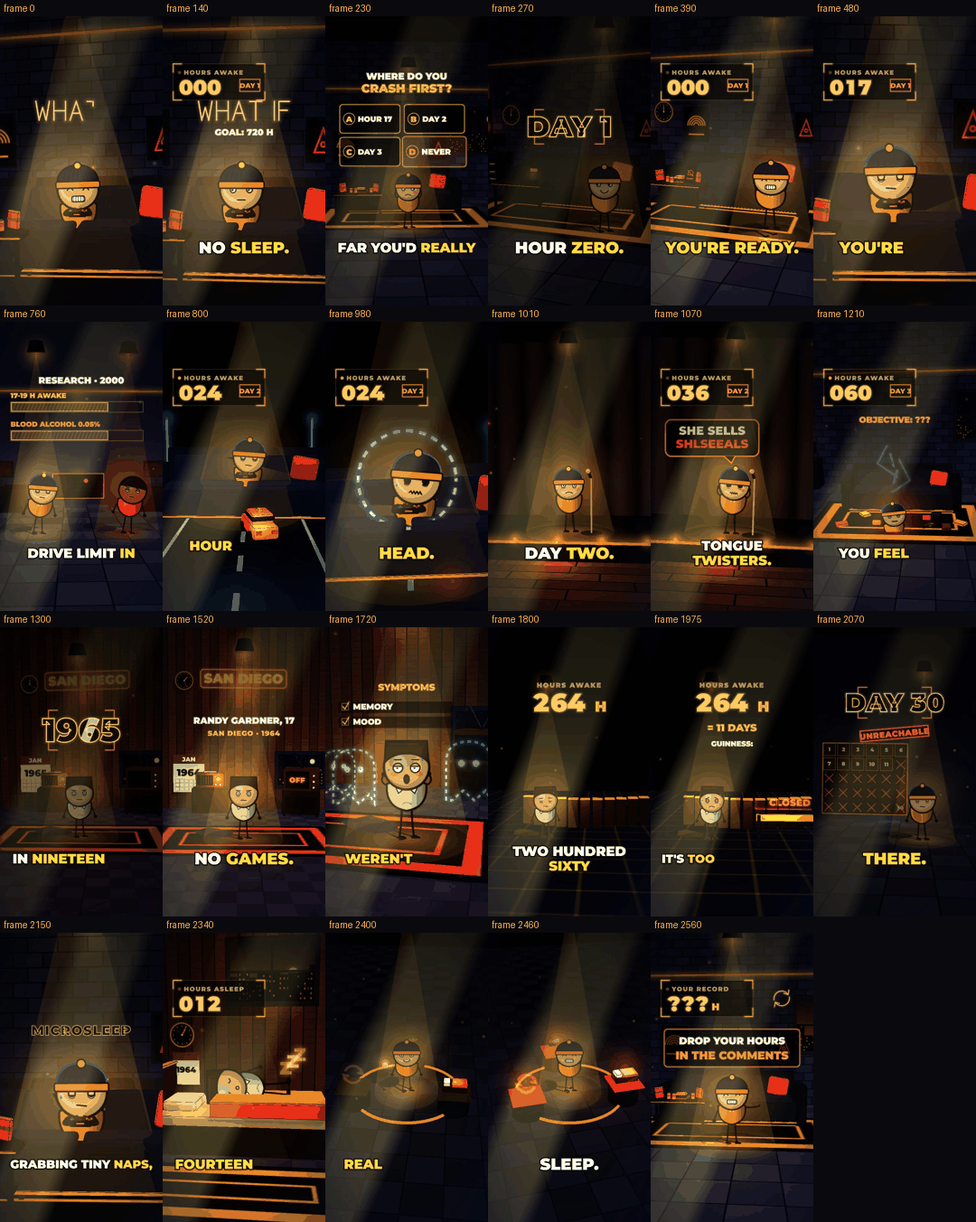
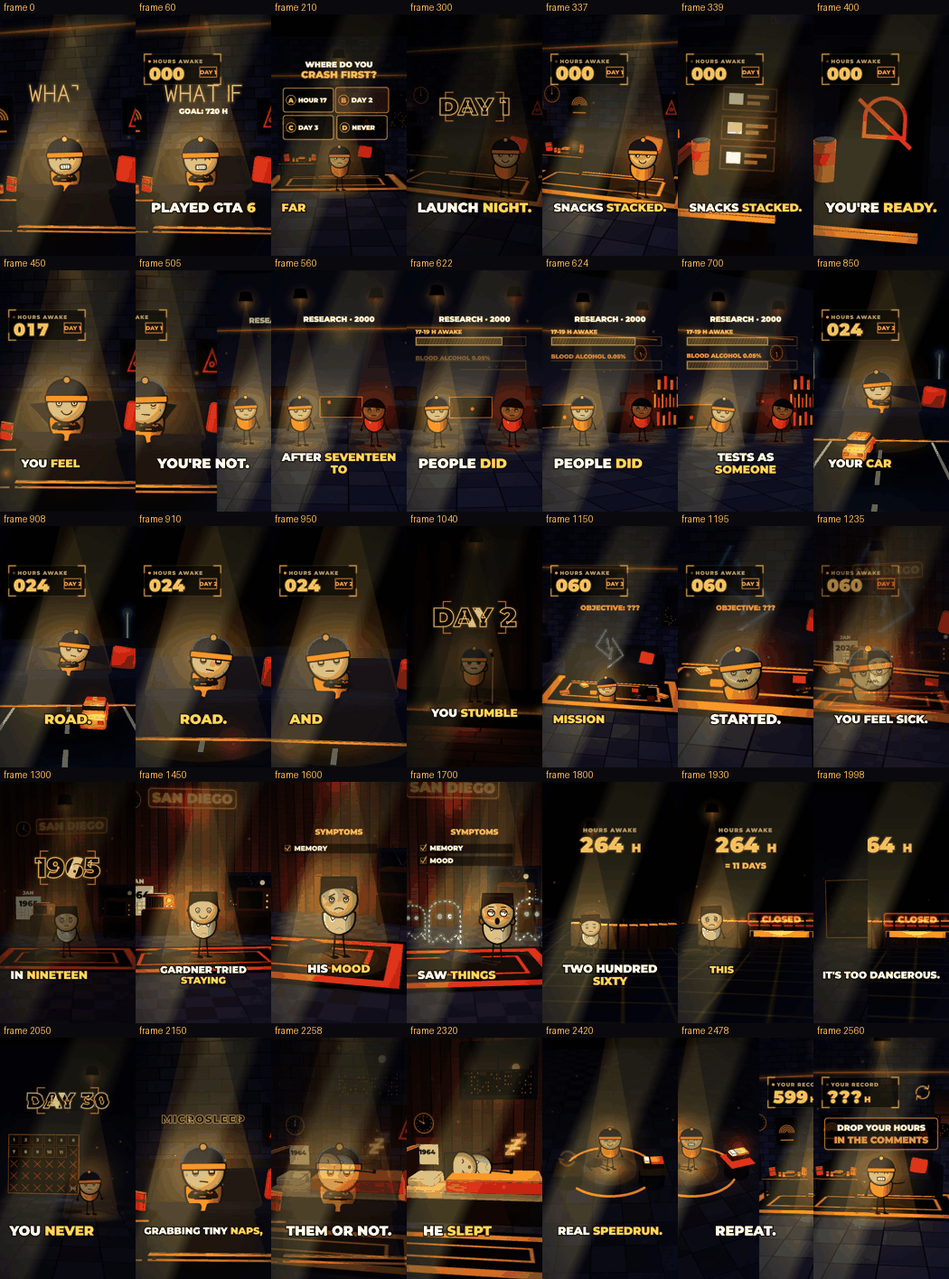
wi-gta-nosleep: real shots and cuts (23 shots, hard cuts, 5 transitions)
Each script line = 1-2 shots with their own framing and in-shot camera move; @remotion/transitions 4.0.290
(slide/fade/wipe, 10 f) on 5 place changes, hard cuts elsewhere; no camera carry-over; phone insert without text.

Claude-Session: https://claude.ai/code/session_019RediFF51hqccXe4quizri

diff --git a/episodes/wi-gta-nosleep/story.tsx b/episodes/wi-gta-nosleep/story.tsx
@@ -11,6 +11,10 @@
 import React from "react";
 import { AbsoluteFill, useCurrentFrame, interpolate, Easing, getInputProps } from "remotion";
 import { ThreeCanvas } from "@remotion/three";
+import { TransitionSeries, linearTiming } from "@remotion/transitions";
+import { fade } from "@remotion/transitions/fade";
+import { slide } from "@remotion/transitions/slide";
+import { wipe } from "@remotion/transitions/wipe";
 import * as THREE from "three";
 import { useThree } from "@react-three/fiber";
 import type { Story, SceneProps } from "../../src/engine/EpisodeShort";
@@ -28,7 +32,6 @@ import { Cam, Key, Taxi, Barrier, Curtain } from "../../library/stick3d/extra";
 import { Glb } from "../../library/stick3d/glb";
 import { drawPuppet, Look, Pose } from "../../library/stick3d/puppet";
 import { N3, FONT3, Halo, FloorPool, NeonBar, HeroLight, Motes, Panel, NeonSign, NeonClock, NightWindow, NeonPoster } from "../../library/stick3d/neon";
-import scenes from "../../content/scripts/wi-gta-nosleep.json";
 
 // ---------------------------------------------------------------- cast
 // Remy = the installed pack look REMY3D (src/tests/Stick3DTest.tsx: gold hoodie puppet) + the series beanie (gold band/pom)
@@ -37,15 +40,41 @@ const RANDY: Look = { skin: "#efcfae", body: "#f1e7d3", outfit: "shirt", hair: "
 const MO: Look = { skin: "#c98d5f", body: N3.coral, outfit: "shirt", hair: "short", hairColor: "#1b1b2a", shoe: N3.ink };
 const { gold: GOLD, coral: CORAL, amber: AMBER, text: CREAM, muted: MUTED, cyan: CYAN } = NEON;
 
-// ---------------------------------------------------------------- shots (cues from content/scripts, places here)
-const PLACE: Record<string, string> = {
-  hook: "room", crash: "room", hour0: "room", hour17: "room", study: "lab", hour24: "road", day2: "stage", day3: "room",
-  real: "y1964", symptoms: "y1964", record: "void", day30: "calendar", micro: "room", slept: "bed", speedrun: "loop", ask: "room",
-};
-const SHOTS = scenes.shots.map((s) => ({ id: s.id, cue: s.cue }));
-/** [place change INTO this shot, place change OUT of it] -> whip-pan carry-over across the dip */
-const CUT: Record<string, [boolean, boolean]> = Object.fromEntries(SHOTS.map((sh, i) => [sh.id, [
-  i > 0 && PLACE[SHOTS[i - 1].id] !== PLACE[sh.id], i < SHOTS.length - 1 && PLACE[SHOTS[i + 1].id] !== PLACE[sh.id]]]));
+// ---------------------------------------------------------------- shots
+// Edited like a real Short (owner 2026-11-21): every script line (beat) = 1-2 distinct SHOTS with their own framing and a
+// short camera move INSIDE the shot; HARD CUTS on beat changes, 5 short transitions (@remotion/transitions) on some place
+// changes. A sub-shot (sub 1) re-frames the same scene ("parent"): animation/HUD timing runs on the parent's clock, so the
+// counter and labels continue across that cut. Cues = narration words (words.json), so the cuts follow the voice.
+type Tr = "fade" | "slide" | "wipe";
+type ShotDef = { id: string; cue: string; parent: string; sub: number; tr?: Tr };
+const DEFS: ShotDef[] = [
+  { id: "hook", cue: "What if you", parent: "hook", sub: 0 },
+  { id: "crash", cue: "Let's see how", parent: "crash", sub: 0 },
+  { id: "hour0", cue: "Hour zero. Launch", parent: "hour0", sub: 0 },
+  { id: "hour0b", cue: "Phone on silent", parent: "hour0", sub: 1 },
+  { id: "hour17", cue: "Hour seventeen. You", parent: "hour17", sub: 0 },
+  { id: "study", cue: "In one study,", parent: "study", sub: 0, tr: "slide" },
+  { id: "studyb", cue: "as badly on", parent: "study", sub: 1 },
+  { id: "hour24", cue: "Hour twenty four.", parent: "hour24", sub: 0 },
+  { id: "hour24b", cue: "In the game,", parent: "hour24", sub: 1 },
+  { id: "day2", cue: "Day two. You", parent: "day2", sub: 0 },
+  { id: "day3", cue: "Day three. You", parent: "day3", sub: 0 },
+  { id: "day3b", cue: "You feel sick", parent: "day3", sub: 1 },
+  { id: "real", cue: "That's not a", parent: "real", sub: 0, tr: "fade" },
+  { id: "realb", cue: "named Randy Gardner", parent: "real", sub: 1 },
+  { id: "symptoms", cue: "His memory slipped,", parent: "symptoms", sub: 0 },
+  { id: "symptomsb", cue: "some reports say", parent: "symptoms", sub: 1 },
+  { id: "record", cue: "He stopped after", parent: "record", sub: 0 },
+  { id: "recordb", cue: "Guinness later", parent: "record", sub: 1 },
+  { id: "day30", cue: "So day thirty?", parent: "day30", sub: 0, tr: "wipe" },
+  { id: "micro", cue: "Your brain starts", parent: "micro", sub: 0 },
+  { id: "slept", cue: "When Randy finally", parent: "slept", sub: 0, tr: "fade" },
+  { id: "speedrun", cue: "So here's the", parent: "speedrun", sub: 0 },
+  { id: "ask", cue: "What's the longest", parent: "ask", sub: 0, tr: "slide" },
+];
+const DEF: Record<string, ShotDef> = Object.fromEntries(DEFS.map((d) => [d.id, d]));
+const SHOTS = DEFS.map((d) => ({ id: d.id, cue: d.cue }));
+const TR_FRAMES = 10;
 
 // ---------------------------------------------------------------- helpers
 /** exposure gain for the lit walls/floors (linear canvas output is dark): sets read clearly behind the characters */
@@ -54,26 +83,9 @@ const k = (u: number, a: number, b: number, from: number, to: number, e = EASE.c
   interpolate(u, [a, b], [from, to], { extrapolateLeft: "clamp", extrapolateRight: "clamp", easing: e });
 const pop = (u: number, at: number, d = 10) => interpolate(u, [at, at + d], [0, 1], { extrapolateLeft: "clamp", extrapolateRight: "clamp", easing: Easing.out(Easing.back(2.2)) });
 const ck = (u: number, pos: V3, look: V3, fov = 46, roll = 0): Key => ({ t: u / FPS, pos, look, fov, roll });
-/** Camera: piecewise-LINEAR moves (constant speed, never eased to a stop) so motion carries through the cuts; every shot
- *  trucks left + pushes in (one direction for the whole film). At a place change the camera whips left: the old shot
- *  accelerates its pan over its last 8 frames, the new one starts mid-whip and settles (motion carry-over across the dip). */
-const camLin = (t: number, keys: Key[]): Key => {
-  if (keys.length === 1) return keys[0];
-  let i = 0; while (i < keys.length - 2 && t > keys[i + 1].t) i++;
-  const a = keys[i], b = keys[i + 1], w = (t - a.t) / Math.max(1e-6, b.t - a.t);
-  const L = (x: number, y: number) => x + (y - x) * w;
-  return { t, pos: [L(a.pos[0], b.pos[0]), L(a.pos[1], b.pos[1]), L(a.pos[2], b.pos[2])], look: [L(a.look[0], b.look[0]), L(a.look[1], b.look[1]), L(a.look[2], b.look[2])], fov: L(a.fov ?? 46, b.fov ?? 46), roll: L(a.roll ?? 0, b.roll ?? 0) };
-};
-const WHIP = 8;
-const Shot: React.FC<{ u: number; len?: number; cut?: [boolean, boolean]; keys: Key[]; kicks?: number[]; impacts?: [number, number][] }> = ({ u, len = 9999, cut = [false, false], keys, kicks = [], impacts = [] }) => {
-  const c = camLin(u / FPS, keys);
-  const out = cut[1] ? Math.pow(clamp((u - (len - WHIP)) / WHIP), 2) : 0;
-  const inn = cut[0] ? Math.pow(1 - clamp(u / WHIP), 2) : 0;
-  const dist = Math.hypot(c.look[0] - c.pos[0], c.look[2] - c.pos[2]);
-  const dx = (inn - out) * 0.09 * dist; // gentle whip (~5 deg) so close shots never swing the hero off frame
-  const look: V3 = [c.look[0] + dx, c.look[1], c.look[2]];
-  return <Cam t={u / FPS} keys={[{ ...c, t: 0, look }]} fovKick={kicks.map((x) => x / FPS)} impacts={impacts.map(([a, b]) => [a / FPS, b] as [number, number])} />;
-};
+/** Camera: one short, eased move INSIDE each shot (push / pan / slight orbit); nothing carries across a cut */
+const Shot: React.FC<{ u: number; keys: Key[]; kicks?: number[]; impacts?: [number, number][] }> = ({ u, keys, kicks = [], impacts = [] }) =>
+  <Cam t={u / FPS} keys={keys} fovKick={kicks.map((x) => x / FPS)} impacts={impacts.map(([a, b]) => [a / FPS, b] as [number, number])} />;
 /** Lighting rig for every scene: warm KEY from front-top, cool sky/ground FILL, gold RIM from behind the hero, a soft
  *  pool over the hero, plus motivated practicals (lamp, TV/game glow, neon, window) as point lights; the pack's Shaft. */
 type Prac = [V3, string, number];
@@ -212,7 +224,7 @@ const GamerRoom: React.FC<{ t: number; dawn?: number; clockH?: number; table?: b
 
 // ---------------------------------------------------------------- shot builder
 type View = { world: React.ReactNode; hud?: React.ReactNode; black?: number; dim?: number };
-const build = (id: string, f: number, u: number, len: number, C: (p: string, fb: number) => number, hide: boolean): View => {
+const build = (id: string, f: number, u: number, len: number, C: (p: string, fb: number) => number, hide: boolean, sub = 0, us = u, ls = len): View => {
   const t = f / FPS;
   switch (id) {
     case "hook": { // frame 0 sting: WHAT IF already drawing on, Remy lit on the couch mashing the controller; counter + subtitle follow
@@ -223,7 +235,7 @@ const build = (id: string, f: number, u: number, len: number, C: (p: string, fb:
         <Hero p={[0, 0.2, -1.35]} look={REMY} pose={{ arms: "hold", mood: u >= NS ? "deadpan" : "grin", lookX: Math.sin(f * 0.21) * 0.6 }} f={f} shadow={false} rimO={0.45} />
         <Pad p={[0, 1.2, -1.2]} f={f} />
         <HeroLight p={[0, 0, -1.35]} h={6.2} r={1.6} t={t} />
-        <Shot u={u} len={len} cut={CUT[id] ?? [false, false]} keys={[ck(0, [1.2, 2.45, 6.9], [0.1, 2.33, -1.3], 42, 0.03), ck(len, [0.5, 2.42, 6.8], [0.05, 2.32, -1.3], 41, -0.01)]} />
+        <Shot u={us} keys={[ck(0, [1.2, 2.45, 6.9], [0.1, 2.33, -1.3], 42, 0.03), ck(ls, [0.5, 2.42, 6.8], [0.05, 2.32, -1.3], 41, -0.01)]} />
       </>;
       const hud = !hide && <>
         <StrokeWord text="WHAT IF" x={540} y={565} h={125} p={wp} />
@@ -238,7 +250,7 @@ const build = (id: string, f: number, u: number, len: number, C: (p: string, fb:
         <GamerRoom t={t} hero={[0.2, 0, 2.2]} />
         <Hero p={[0.2, 0, 2.2]} look={REMY} pose={{ arms: "head", mood: "worry", nerv: 0.5, lookX: pick >= 0 ? [-1, 1, -1, 1][pick] : 0 }} f={f} rimO={0.4} />
         <HeroLight p={[0.2, 0, 2.2]} h={6} r={1.3} t={t} />
-        <Shot u={u} len={len} cut={CUT[id] ?? [false, false]} keys={[ck(0, [0.5, 3.3, 15.3], [0.25, 2.56, 2.2], 46, 0.02), ck(len, [-0.5, 3.2, 14.7], [0.1, 2.54, 2.2], 46, -0.01)]} />
+        <Shot u={us} keys={[ck(0, [0.5, 3.3, 15.3], [0.25, 2.56, 2.2], 46, 0.02), ck(ls, [-0.5, 3.2, 14.7], [0.1, 2.54, 2.2], 46, -0.01)]} />
       </>;
       const hud = !hide && <>
         <HudText f={u} x={540} y={420} size={62} color={CREAM} enter="words" at={0} out={len - 6}>WHERE DO YOU</HudText>
@@ -251,24 +263,24 @@ const build = (id: string, f: number, u: number, len: number, C: (p: string, fb:
     case "hour0": { // chapter HOUR 0 / LAUNCH NIGHT; snacks pop onto the table one by one; the phone goes silent; Remy: READY.
       const SS = C("Snacks stacked", 61), PS = C("Phone on", 89), YR = C("You're ready", 128);
       const chapOut = SS - 8;
-      const silent = u >= PS + 4;
+      const silent = u >= PS + 18; // bell icon only (no word: the caption says it)
       const nSn = k(u, SS - 2, SS + 22, 0, 8, Easing.linear);
       const ready = u >= YR;
       const jump = ready ? Math.max(0, Math.sin(((u - YR) / 14) * Math.PI)) * (u - YR < 14 ? 1 : 0) : 0;
       const world = <>
         <GamerRoom t={t} snacks={nSn} hero={[1.9, 0, 1.6]} />
-        <group position={[-1.3, 1.07, 0.05]} rotation={[-0.35, 0.2, 0]}>
+        <group position={[-1.02, 1.07, 0.18]} rotation={[-0.35, 0.2, 0]}>
           <Glb name="smartphone" p={[0, 0.3, 0]} line={2} fallback={<Box p={[0, 0.3, 0]} s={[0.4, 0.7, 0.05]} color="#11131f" line={3} />} />
           <Panel p={[0, 0.3, 0.035]} s={[0.34, 0.62]} px={[136, 248]} dep={(silent ? 1 : 0) + Math.floor(u / 6) % 2 * 2} draw={(c, W, H) => {
             c.fillStyle = "#0a0c16"; c.fillRect(0, 0, W, H); c.textAlign = "center"; c.font = `900 26px ${FONT3}`;
-            if (silent) { c.strokeStyle = CORAL; c.lineWidth = 7; c.beginPath(); c.arc(W / 2, H * 0.42, 34, Math.PI, 0); c.lineTo(W / 2 + 34, H * 0.55); c.lineTo(W / 2 - 34, H * 0.55); c.closePath(); c.stroke(); c.beginPath(); c.moveTo(W / 2 - 46, H * 0.3); c.lineTo(W / 2 + 46, H * 0.62); c.stroke(); c.fillStyle = CORAL; c.fillText("SILENT", W / 2, H * 0.8); }
-            else { for (let i = 0; i < 3; i++) { c.fillStyle = i === 0 && Math.floor(u / 6) % 2 ? GOLD : "#2a2f45"; c.fillRect(12, 30 + i * 62, W - 24, 48); } }
+            if (silent) { c.strokeStyle = CORAL; c.lineWidth = 7; c.beginPath(); c.arc(W / 2, H * 0.42, 34, Math.PI, 0); c.lineTo(W / 2 + 34, H * 0.55); c.lineTo(W / 2 - 34, H * 0.55); c.closePath(); c.stroke(); c.beginPath(); c.moveTo(W / 2 - 46, H * 0.3); c.lineTo(W / 2 + 46, H * 0.62); c.stroke(); }
+            else { for (let i = 0; i < 3; i++) { const on = i === 0 && Math.floor(u / 6) % 2; c.fillStyle = on ? "rgba(245,185,66,.35)" : "#1d2236"; c.fillRect(12, 30 + i * 62, W - 24, 48); c.strokeStyle = on ? GOLD : N3.dim; c.lineWidth = 3; c.strokeRect(12, 30 + i * 62, W - 24, 48); c.fillStyle = CREAM; c.fillRect(24, 42 + i * 62, 30, 24); c.fillStyle = N3.muted; c.fillRect(62, 44 + i * 62, W - 90, 8); c.fillRect(62, 58 + i * 62, (W - 90) * 0.6, 8); } }
           }} />
           {!silent && <Halo p={[0, 0.3, 0.1]} r={0.5} color={N3.gold} o={0.35 + 0.25 * Math.sin(f * 1.4)} />}
         </group>
         <Hero p={[1.9, 0.3 * jump, 1.6]} look={REMY} pose={{ arms: ready ? "up" : "chest", armK: ready ? 1 : 0.6, mood: ready ? "grin" : "smile", squash: ready ? -0.08 * jump : 0, lookX: -0.8 }} f={f} rimO={0.4} />
         <HeroLight p={[1.9, 0, 1.6]} h={6} r={1.2} t={t} />
-        <Shot u={u} len={len} cut={CUT[id] ?? [false, false]} keys={[ck(0, [4.6, 3.6, 11.4], [0.6, 2.1, 1.1], 46, 0.02), ck(len, [3.6, 3.4, 10.8], [0.6, 2.06, 1.1], 46, -0.01)]} />
+        <Shot u={us} keys={sub ? [ck(0, [-0.65, 1.85, 1.95], [-1.02, 1.36, 0.15], 36, 0.02), ck(ls, [-0.75, 1.75, 1.7], [-1.02, 1.35, 0.15], 34, 0)] : [ck(0, [4.6, 3.6, 11.4], [0.6, 2.1, 1.1], 46, 0.02), ck(ls, [3.6, 3.4, 10.8], [0.6, 2.06, 1.1], 46, -0.01)]} />
       </>;
       const hud = !hide && <>
         <ChapterScreen f={u} id="h0" big="DAY 1" y={800} size={190} at={0} out={chapOut} />
@@ -284,7 +296,7 @@ const build = (id: string, f: number, u: number, len: number, C: (p: string, fb:
         <Hero p={[0, 0.2, -1.35]} look={REMY} pose={{ arms: "hold", mood: tired > 0.5 ? "tired" : "smile", lids: 0.15 + 0.35 * tired, bags: 0.2 + 0.6 * tired, sweat: 0.45 * tired, nod: tired * 0.12 * (0.5 + 0.5 * Math.sin(f * 0.09)), tilt: -0.05 * tired }} f={f} shadow={false} rimO={0.5} />
         <Pad p={[0, 1.2, -1.2]} f={f} />
         <HeroLight p={[0, 0, -1.35]} h={6.2} r={1.5} t={t} />
-        <Shot u={u} len={len} cut={CUT[id] ?? [false, false]} keys={[ck(0, [0.7, 2.2, 6.4], [0.05, 1.98, -1.3], 40, 0.02), ck(len, [-0.3, 2.2, 5.9], [0, 1.98, -1.3], 40, -0.02)]} />
+        <Shot u={us} keys={[ck(0, [0.7, 2.2, 6.4], [0.05, 1.98, -1.3], 40, 0.02), ck(ls, [-0.3, 2.2, 5.9], [0, 1.98, -1.3], 40, -0.02)]} />
       </>;
       const hud = !hide && <>
         <LiveCounter f={u} from={0} to={17} at={2} dur={22} tag="DAY 1" />
@@ -313,7 +325,7 @@ const build = (id: string, f: number, u: number, len: number, C: (p: string, fb:
         <Hero p={[1.5, 0, 0.6]} look={MO} pose={{ mood: "deadpan", lids: 0.45, tilt: sway, hunch: slump * 0.8, arms: "down" }} f={f + 7} rim={N3.coral} rimO={0.35} />
         <HeroLight p={[-1.5, 0, 0.6]} h={6} r={1.1} t={t} /><HeroLight p={[1.5, 0, 0.6]} h={6} r={1.1} t={t + 1} color={N3.coral} o={0.8} />
         <Motes t={t} c={[0, 0.5, 0]} area={[4, 5, 2]} />
-        <Shot u={u} len={len} cut={CUT[id] ?? [false, false]} keys={[ck(0, [1.2, 3.1, 12.3], [0.1, 2.3, 0.6], 46, 0.0), ck(len, [-0.6, 3.0, 11.85], [-0.05, 2.28, 0.6], 46, 0.0)]} />
+        <Shot u={us} keys={sub ? [ck(0, [-8.8, 2.2, 15.3], [-0.2, 2.3, 0.6], 34, 0), ck(ls, [-8.5, 2.2, 15.05], [-0.2, 2.3, 0.6], 34, 0)] : [ck(0, [1.2, 3.1, 12.3], [0.1, 2.3, 0.6], 46, 0.0), ck(ls, [-0.6, 3.0, 11.85], [-0.05, 2.28, 0.6], 46, 0.0)]} />
       </>;
       const hud = !hide && <>
         <HudText f={u} x={540} y={410} size={60} color={CREAM} enter="rise" at={2} out={len - 6}>RESEARCH · 2000</HudText>
@@ -339,7 +351,7 @@ const build = (id: string, f: number, u: number, len: number, C: (p: string, fb:
         {Array.from({ length: 14 }, (_, i) => <NeonBar key={i} p={[0, 0.03, 8 - i * 1.6 + dash]} s={[0.1, 0.03, 0.7]} color={CYAN} glow={0} o={0.8} />)}
         {Array.from({ length: 6 }, (_, i) => <group key={i}><NeonBar p={[i % 2 ? 2.6 : -2.6, 1.4, 4 - i * 3.2]} s={[0.06, 2.8, 0.06]} color={CYAN} glow={0.3} /><Halo p={[i % 2 ? 2.6 : -2.6, 2.85, 4 - i * 3.2]} r={0.5} color={CYAN} o={0.6} /></group>)}
         <FloorPool p={[0, 0, -2]} r={3} color={CYAN} o={0.15} sx={0.6} />
-        <group position={[sway * 0.9 - k(u, IG, IG + 36, 0, 5, Easing.in(Easing.quad)), 0, -5.6]} rotation={[0, Math.PI / 2 + 0.35 * Math.cos(u * 0.07), 0]}><Glb name="toy_car" blob={0.9} fallback={<group scale={0.32}><Taxi p={[0, 0, 0]} color={CORAL} /></group>} /></group>
+        {!sub && <group position={[sway * 0.9 - k(u, IG, IG + 36, 0, 5, Easing.in(Easing.quad)), 0, -5.6]} rotation={[0, Math.PI / 2 + 0.35 * Math.cos(u * 0.07), 0]}><Glb name="toy_car" blob={0.9} fallback={<group scale={0.32}><Taxi p={[0, 0, 0]} color={CORAL} /></group>} /></group>}
         <Halo p={[sway * 0.9, 0.3, -6.0]} r={0.6} color={CORAL} o={0.3} />
         <Couch z={-7.5} />
         <Hero p={[0, 0.2, -7.55]} look={REMY} pose={{ arms: "hold", mood: head > 0.5 ? "dizzy" : "tired", lids: 0.3, bags: 0.8, sweat: 0.5, tilt: 0.16 * sway }} f={f} shadow={false} rimO={0.5} />
@@ -348,7 +360,7 @@ const build = (id: string, f: number, u: number, len: number, C: (p: string, fb:
         {head > 0 && <Panel p={[0, 1.75, -7.2]} s={[2.0, 2.0]} px={[256, 256]} additive o={head} dep={Math.floor(u / 2)} draw={(c, W) => {
           c.strokeStyle = CYAN; c.shadowColor = CYAN; c.shadowBlur = 14; c.lineWidth = 7; c.setLineDash([16, 14]); c.lineDashOffset = -u * 2; c.beginPath(); c.arc(W / 2, W / 2, W * 0.44, 0, 7); c.stroke();
         }} />}
-        <Shot u={u} len={len} cut={CUT[id] ?? [false, false]} keys={[ck(0, [0.3, 2.8, 3.0], [0, 1.6, -6], 44, 0), ck(IG, [0.2, 2.6, 1.2], [0, 1.85, -7.5], 44, roll), ck(Math.max(IG + 1, len), [0, 2.3, -0.85], [0, 2.0, -7.55], 42, roll)]} />
+        <Shot u={us} keys={sub ? [ck(0, [0.5, 2.3, -0.4], [0, 2.0, -7.55], 42, roll), ck(ls, [0, 2.3, -0.85], [0, 2.0, -7.55], 42, roll)] : [ck(0, [0.3, 2.8, 3.0], [0, 1.6, -6], 44, 0), ck(ls, [0.2, 2.6, 1.6], [0, 1.8, -7], 44, roll)]} />
       </>;
       const hud = !hide && <>
         <LiveCounter f={u} from={17} to={24} at={2} dur={18} tag="DAY 2" />
@@ -383,7 +395,7 @@ const build = (id: string, f: number, u: number, len: number, C: (p: string, fb:
           c.fillStyle = CREAM; c.textAlign = "center"; c.font = `900 66px ${FONT3}`; c.fillText(line1, W / 2, 92); c.fillStyle = scr ? CORAL : CREAM; c.fillText(line2, W / 2, 166);
         }} /></group>}
         <Motes t={t} c={[0, 1, 0]} area={[4, 5, 2]} />
-        <Shot u={u} len={len} cut={CUT[id] ?? [false, false]} keys={[ck(0, [1.6, 2.7, 11.3], [0.15, 2.6, 0.5], 46, 0.02), ck(len, [0.65, 2.6, 10.9], [0.15, 2.58, 0.5], 46, -0.04)]} />
+        <Shot u={us} keys={[ck(0, [1.6, 2.7, 11.3], [0.15, 2.6, 0.5], 46, 0.02), ck(ls, [0.65, 2.6, 10.9], [0.15, 2.58, 0.5], 46, -0.04)]} />
       </>;
       const hud = !hide && <>
         <ChapterScreen f={u} id="d2" big="DAY 2" y={800} size={210} at={BS} out={chapOut} />
@@ -409,7 +421,7 @@ const build = (id: string, f: number, u: number, len: number, C: (p: string, fb:
           for (const s of [-1, 1]) { c.save(); c.translate(s * d, s * d * 0.4); c.rotate(s * broken * 0.25); c.beginPath(); c.rect(s < 0 ? 0 : m, 0, m, W); c.clip();
             c.beginPath(); c.moveTo(m, 30); c.lineTo(W - 40, m); c.lineTo(m, W - 30); c.lineTo(40, m); c.closePath(); c.stroke(); c.font = `900 110px ${FONT3}`; c.fillStyle = CYAN; c.textAlign = "center"; c.fillText("!", m, m + 40); c.restore(); }
         }} />
-        <Shot u={u} len={len} cut={CUT[id] ?? [false, false]} keys={[ck(0, [2.2, 6.3, 14.3], [0, 2.76, 1.5], 46, 0.03 * Math.sin(u * 0.07) * (0.3 + q)), ck(len, [1.2, 6.0, 13.95], [0, 2.74, 1.5], 46, 0.05 * Math.sin(u * 0.07) * (0.3 + q))]} />
+        <Shot u={us} keys={sub ? [ck(0, [1.3, 3.1, 8.2], [0, 1.3, 1.5], 42, 0.03 * Math.sin(u * 0.07) * (0.3 + q)), ck(ls, [0.8, 3.0, 7.95], [0, 1.28, 1.5], 42, 0.04 * Math.sin(u * 0.07) * (0.3 + q))] : [ck(0, [2.2, 6.3, 14.3], [0, 2.76, 1.5], 46, 0.03 * Math.sin(u * 0.07) * (0.3 + q)), ck(ls, [1.2, 6.0, 13.95], [0, 2.74, 1.5], 46, 0.05 * Math.sin(u * 0.07) * (0.3 + q))]} />
       </>;
       const hud = !hide && <>
         <LiveCounter f={u} from={48} to={60} at={FM + 4} dur={20} tag="DAY 3" />
@@ -459,8 +471,8 @@ const build = (id: string, f: number, u: number, len: number, C: (p: string, fb:
           }} />))}
         {!isR && gp > 0 && <Halo p={[1.2, 2.5, -1]} r={3} color={CYAN} o={0.08 * gp} />}
         <Motes t={t} c={[0, 0.5, -0.5]} area={[4, 5, 2.5]} />
-        {isR ? <Shot u={u} len={len} cut={CUT[id] ?? [false, false]} keys={[ck(0, [1.2, 3.1, 11.9], [0.1, 2.22, 0.6], 46, 0.02), ck(len, [-0.2, 3.0, 11.45], [0, 2.2, 0.6], 46, -0.01)]} />
-          : <Shot u={u} len={len} cut={CUT[id] ?? [false, false]} keys={[ck(0, [3.6, 2.7, 8.3], [1.2, 1.44, 0.6], 42, 0.03), ck(len, [2.7, 2.6, 7.9], [1.2, 1.42, 0.6], 42, 0.0)]} />}
+        {isR ? <Shot u={us} keys={sub ? [ck(0, [-1.0, 2.4, 10.8], [0, 1.74, 0.6], 40, 0), ck(ls, [-0.6, 2.4, 10.5], [0, 1.72, 0.6], 40, 0)] : [ck(0, [1.2, 3.1, 11.9], [0.1, 2.22, 0.6], 46, 0.02), ck(ls, [-0.2, 3.0, 11.45], [0, 2.2, 0.6], 46, -0.01)]} />
+          : <Shot u={us} keys={sub ? [ck(0, [-0.4, 2.8, 9.0], [0.6, 1.74, 0], 44, 0), ck(ls, [0.1, 2.8, 8.7], [0.6, 1.72, 0], 44, 0)] : [ck(0, [3.6, 2.7, 8.3], [1.2, 1.44, 0.6], 42, 0.03), ck(ls, [2.7, 2.6, 7.9], [1.2, 1.42, 0.6], 42, 0.0)]} />}
       </>;
       const hud = !hide && (isR ? <>
         {chapIn && <ChapterScreen f={u} id="y64" big={String(year)} y={760} size={220} at={Y64} out={RG - 8} />}
@@ -502,7 +514,7 @@ const build = (id: string, f: number, u: number, len: number, C: (p: string, fb:
         {u >= BA - 10 && <group position={[1.4, by, 1.4]}><Barrier p={[0, 0, 0]} w={2.4} /></group>}
         {u >= BA - 10 && <NeonSign p={[1.4, 1.55 + by, 1.45]} s={[2.6, 0.55]} text="CLOSED" color={N3.coral} box />}
         <Motes t={t} c={[0, 0.3, 0]} area={[5, 4, 2]} />
-        <Shot u={u} len={len} cut={CUT[id] ?? [false, false]} impacts={[[BA, 0.015]]} keys={[ck(0, [0.6, 3.3, 14.6], [-0.55, 2.62, 0.6], 44, 0), ck(len, [-0.6, 3.2, 14.2], [-0.7, 2.6, 0.6], 44, -0.01)]} />
+        <Shot u={us} impacts={[[BA, 0.015]]} keys={sub ? [ck(0, [2.0, 2.2, 13.6], [0, 2.2, 1.2], 42, 0), ck(ls, [1.5, 2.2, 13.35], [0, 2.2, 1.2], 42, 0)] : [ck(0, [0.6, 3.3, 14.6], [-0.55, 2.62, 0.6], 44, 0), ck(ls, [-0.6, 3.2, 14.2], [-0.7, 2.6, 0.6], 44, -0.01)]} />
       </>;
       const hud = !hide && <>
         <HudText f={u} x={540} y={400} size={44} color={MUTED} enter="rise" at={0} out={len - 6} spacing={6}>HOURS AWAKE</HudText>
@@ -539,7 +551,7 @@ const build = (id: string, f: number, u: number, len: number, C: (p: string, fb:
         <Hero p={[2.4, 0, 0.4]} look={REMY} pose={{ mood: "tired", lids: 0.4 + 0.5 * nod, bags: 1, sweat: 0.6, nod: nod * 0.8, hunch: 0.6, tilt: -0.06 * nod }} f={f} rimO={0.45} />
         <HeroLight p={[2.4, 0, 0.4]} h={6} r={1.2} t={t} />
         <Motes t={t} c={[0, 0.3, 0]} area={[4, 4, 2]} />
-        <Shot u={u} len={len} cut={CUT[id] ?? [false, false]} keys={[ck(0, [2.6, 2.7, 12.9], [1.4, 2.44, 0.4], 46, 0.02), ck(len, [2.0, 2.6, 12.5], [1.4, 2.42, 0.4], 46, -0.02)]} />
+        <Shot u={us} keys={[ck(0, [2.6, 2.7, 12.9], [1.4, 2.44, 0.4], 46, 0.02), ck(ls, [2.0, 2.6, 12.5], [1.4, 2.42, 0.4], 46, -0.02)]} />
       </>;
       const hud = !hide && <>
         <ChapterScreen f={u} id="d30" big="DAY 30" y={560} size={170} at={YN} glitch={gl} />
@@ -560,7 +572,7 @@ const build = (id: string, f: number, u: number, len: number, C: (p: string, fb:
         <Hero p={[0, 0.2, -1.35]} look={REMY} pose={{ arms: "hold", armK: 1 - closed * 0.5, mood: since < 6 ? "shock" : "tired", lids: since < 6 ? 0 : 0.3 + 0.7 * closed, bags: 1, sweat: 0.7, nod: since < 6 ? 0 : closed * 0.9, squash: -0.06 * jolt }} f={f} shadow={false} rimO={0.5} />
         <Pad p={[0, 1.2 - closed * 0.15, -1.2]} f={f} />
         <HeroLight p={[0, 0, -1.35]} h={6.2} r={1.5} t={t} />
-        <Shot u={u} len={len} cut={CUT[id] ?? [false, false]} kicks={B.map(([s, d]) => s + d)} keys={[ck(0, [0.6, 2.2, 6.2], [0, 1.98, -1.3], 40, 0.02), ck(len, [0, 2.2, 5.7], [0, 1.98, -1.3], 40, -0.02)]} />
+        <Shot u={us} kicks={B.map(([s, d]) => s + d)} keys={[ck(0, [0.6, 2.2, 6.2], [0, 1.98, -1.3], 40, 0.02), ck(ls, [0, 2.2, 5.7], [0, 1.98, -1.3], 40, -0.02)]} />
       </>;
       const hud = !hide && !inB && <>
         <HudText f={u} x={540} y={680} size={92} color={GOLD} enter="scale" at={TN + 14} out={len - 6} tube spacing={4}>MICROSLEEP</HudText>
@@ -592,7 +604,7 @@ const build = (id: string, f: number, u: number, len: number, C: (p: string, fb:
         <HeroLight p={[-0.4, 0, -1.4]} h={6} r={1.8} t={t} o={0.35} />
         {[0, 1, 2].map((i) => { const q = ((f / 70 + i / 3) % 1); return <NeonSign key={i} p={[1.0 + q * 0.5, 2.0 + q * 0.5, -1.2]} s={[0.7, 0.7]} text="Z" color={N3.amber} face o={Math.min(1, (1 - q) * 3) * Math.min(1, q * 6)} />; })}
         <Motes t={t} c={[0, 0.5, -1]} area={[4, 4, 2]} />
-        <Shot u={u} len={len} cut={CUT[id] ?? [false, false]} keys={[ck(0, [1.8, 3.3, 7.9], [0, 1.8, -1.4], 44, 0.02), ck(len, [0.8, 3.2, 7.45], [0, 1.78, -1.4], 44, 0)]} />
+        <Shot u={us} keys={[ck(0, [1.8, 3.3, 7.9], [0, 1.8, -1.4], 44, 0.02), ck(ls, [0.8, 3.2, 7.45], [0, 1.78, -1.4], 44, 0)]} />
       </>;
       const hud = !hide && <>
         <LiveCounter f={u} label="HOURS ASLEEP" from={0} to={14} at={FH} dur={16} />
@@ -634,7 +646,7 @@ const build = (id: string, f: number, u: number, len: number, C: (p: string, fb:
         {mode === 1 && <Pad p={[0, 0.95, 0.12]} f={f} />}
         <HeroLight p={[0, 0, 0]} h={6.5} r={1.2} t={t} />
         <Motes t={t} c={[0, 0.3, 0]} area={[4, 4, 3]} />
-        <Shot u={u} len={len} cut={CUT[id] ?? [false, false]} keys={[ck(0, [12.5 * Math.sin(oa), 8, 12.5 * Math.cos(oa)], [0, 0.6, 0], 40, 0), ck(len, [12.5 * Math.sin(oa), 8, 12.5 * Math.cos(oa)], [0, 0.6, 0], 40, 0)]} />
+        <Shot u={us} keys={[ck(0, [12.5 * Math.sin(oa), 8, 12.5 * Math.cos(oa)], [0, 0.6, 0], 40, 0), ck(ls, [12.5 * Math.sin(oa), 8, 12.5 * Math.cos(oa)], [0, 0.6, 0], 40, 0)]} />
       </>;
       const hud = !hide && <>
       </>;
@@ -645,7 +657,7 @@ const build = (id: string, f: number, u: number, len: number, C: (p: string, fb:
         <GamerRoom t={t} dawn={0.85} clockH={8} hero={[0.2, 0, 1.9]} />
         <Hero p={[0.2, 0, 1.9]} look={REMY} pose={{ mood: "grin", arms: u > 24 ? "point" : "up", armK: u > 24 ? 1 : 0.7 + 0.3 * Math.sin(f * 0.5), tilt: u > 24 ? 0 : 0.04 * Math.sin(f * 0.25) }} f={f} rimO={0.45} />
         <HeroLight p={[0.2, 0, 1.9]} h={6} r={1.3} t={t} />
-        <Shot u={u} len={len} cut={CUT[id] ?? [false, false]} keys={[ck(0, [1.6, 3.1, 12.2], [0.2, 2.04, 1.9], 46, 0.02), ck(len, [0.8, 3.0, 11.75], [0.2, 2.02, 1.9], 46, -0.01)]} />
+        <Shot u={us} keys={[ck(0, [1.6, 3.1, 12.2], [0.2, 2.04, 1.9], 46, 0.02), ck(ls, [0.8, 3.0, 11.75], [0.2, 2.02, 1.9], 46, -0.01)]} />
       </>;
       const roll = Array.from({ length: 3 }, (_, i) => String(Math.floor(rnd(Math.floor(u / 3) * 5 + i) * 10))).join("");
       const qp = drawOn(u, 8, 14);
@@ -669,33 +681,46 @@ const renderDpr = () => Number((getInputProps() as { dpr?: number }).dpr ?? 0.5)
 const cueLocal = (words: Word[], phrase: string, span: ShotSpan, fallback: number) => {
   try { return Math.round(cueTime(words, phrase, span.a / FPS - 0.3) * FPS) - span.a; } catch { return fallback; }
 };
-const XF = 6, HALF = 3;
-const Scene: React.FC<SceneProps> = ({ spans, words }) => {
-  const f0 = useCurrentFrame();
-  const span = shotAt(spans, f0);
-  const prev = span.i > 0 ? spans[span.i - 1] : null;
-  const u0 = f0 - span.a;
-  const dip = !!prev && u0 < XF && PLACE[prev.id] !== PLACE[span.id];
-  const show = dip && prev && u0 < HALF ? prev : span;
-  const f = show === span ? f0 : show.b - 1;
-  const u = f - show.a, len = show.b - show.a;
-  const v = build(show.id, f, u, len, (p, fb) => cueLocal(words, p, show, fb), dip);
-  const fade = dip ? (u0 < HALF ? (u0 + 1) / (HALF + 1) : 1 - (u0 - HALF + 1) / (XF - HALF + 1)) : 0;
-  const black = Math.max(fade, v.black ?? 0);
+// eslint-disable-next-line @typescript-eslint/no-explicit-any
+const presentation = (t: Tr): any => t === "fade" ? fade() : t === "slide" ? slide({ direction: "from-right" }) : wipe({ direction: "from-left" });
+/** one shot = its own WebGL canvas + HUD; animation clock = the parent scene (u), camera clock = this shot (us) */
+const ShotView: React.FC<{ span: ShotSpan; pa: number; pb: number; words: Word[] }> = ({ span, pa, pb, words }) => {
+  const us = useCurrentFrame();
+  const f = span.a + us, u = f - pa, len = pb - pa, ls = span.b - span.a;
+  const d = DEF[span.id];
+  const parentSpan: ShotSpan = { id: d.parent, a: pa, b: pb, i: span.i };
+  const v = build(d.parent, f, u, len, (p, fb) => cueLocal(words, p, parentSpan, fb), false, d.sub, us, ls);
   return (
     <AbsoluteFill style={{ background: N3.bg }}>
       <ThreeCanvas width={1080} height={1920} dpr={renderDpr()} linear flat shadows="soft" gl={{ antialias: false, stencil: false, powerPreference: "high-performance" }}>
         <color attach="background" args={[N3.bg]} />
-        <group key={show.id}>{v.world}</group>
+        <group>{v.world}</group>
         <ShadowSetup />
       </ThreeCanvas>
       <Grade t={f / FPS} />
       <AbsoluteFill style={{ background: "linear-gradient(180deg, rgba(0,0,0,.55) 0%, rgba(0,0,0,.42) 30%, rgba(0,0,0,0) 52%)" }} />
       {v.dim ? <AbsoluteFill style={{ background: "#000", opacity: v.dim }} /> : null}
       <svg width={1080} height={1920} viewBox="0 0 1080 1920" style={{ position: "absolute", inset: 0 }}><NeonDefs />{v.hud || null}</svg>
-      {black > 0 ? <AbsoluteFill style={{ background: "#000", opacity: black }} /> : null}
+      {v.black ? <AbsoluteFill style={{ background: "#000", opacity: v.black }} /> : null}
     </AbsoluteFill>
   );
+};
+/** the edit: hard cuts on the beat changes, a 10-frame transition where a shot asks for one (the outgoing shot is
+ *  extended by the transition length so every cut still lands on its narration cue) */
+const Scene: React.FC<SceneProps> = ({ spans, words }) => {
+  const parentOf = (id: string) => DEF[id].parent;
+  const range = (p: string) => { const ss = spans.filter((x) => parentOf(x.id) === p); return [ss[0].a, ss[ss.length - 1].b]; };
+  const out: React.ReactNode[] = [];
+  spans.forEach((sp, i) => {
+    const next = spans[i + 1];
+    const tr = next ? DEF[next.id].tr : undefined;
+    const [pa, pb] = range(parentOf(sp.id));
+    out.push(<TransitionSeries.Sequence key={sp.id} durationInFrames={Math.max(1, sp.b - sp.a + (tr ? TR_FRAMES : 0))}>
+      <ShotView span={sp} pa={pa} pb={pb} words={words} />
+    </TransitionSeries.Sequence>);
+    if (tr) out.push(<TransitionSeries.Transition key={sp.id + "-tr"} presentation={presentation(tr)} timing={linearTiming({ durationInFrames: TR_FRAMES })} />);
+  });
+  return <AbsoluteFill style={{ background: N3.bg }}><TransitionSeries>{out}</TransitionSeries></AbsoluteFill>;
 };
 
 const story: Omit<Story, "script"> & { script?: string } = {

diff --git a/brain/render-log.md b/brain/render-log.md
@@ -270,3 +270,7 @@ library/previews/whatif/wi-gta-leonida-stick3d.png. Note: three's ExtrudeGeometr
 | 2026-11-21 19:03 | render-final | wi-gta-leonida | render (840-1119) | 3 | 2038 | cancelled (run 44938267008) |
 | 2026-11-21 19:03 | render-final | wi-gta-leonida | log | 1 | 2039 | cancelled (run 44938267008) |
 | 2026-11-21 19:03 | render-final | wi-gta-leonida | assemble | 1 | 2040 | cancelled (run 44938267008) |
+- 2026-11-21 What If 1 re-edit (owner: "no cuts, one sequence"): 23 SHOTS (each script line = 1-2 shots, own framing +
+  short in-shot move), hard cuts on line changes, 5 transitions via @remotion/transitions 4.0.290 (slide into study,
+  fade into 1964, wipe into DAY 30, fade into Randy's bedroom, slide into the ask; 10 f each, outgoing shot extended so
+  cues stay on the voice). Sub-shots share the parent scene clock (HUD/counter continue across the cut). Stills ~3.1 s.
